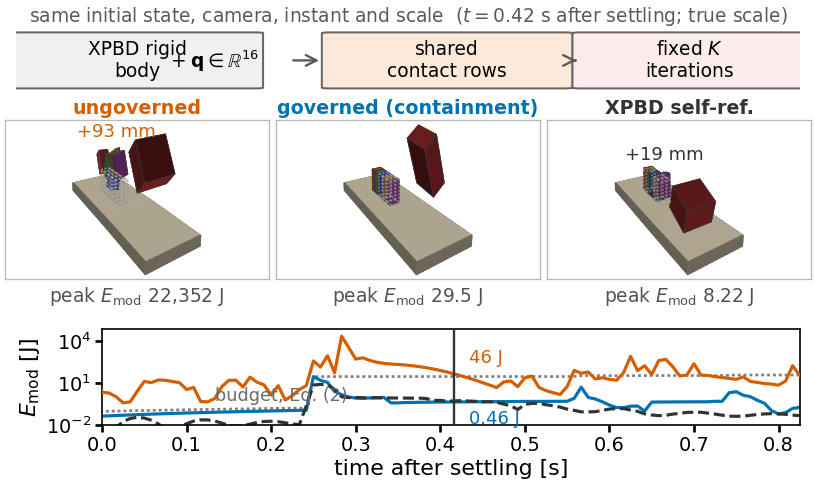
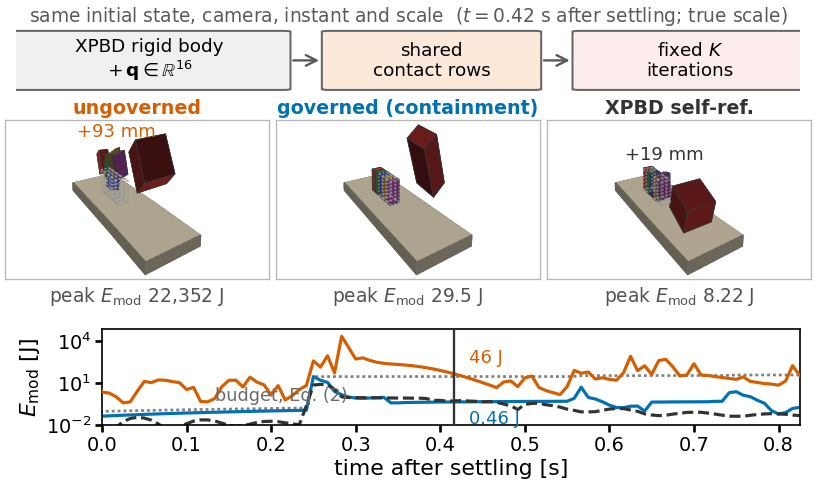
teaser: fix schematic box-1 text collision + uneven arrows
The "+ q in R^16" term was a separate floating label positioned on top
of "XPBD rigid body", so box 1 read as overlapping text. Fold the modal
term onto its own line INSIDE box 1 (single centred label, no overlap),
and make the two pipeline arrows equal length (the second was 0.01 wide
and rendered as a squished ">"). Even box gaps. Panel titles unchanged.

Changed region(s): [[0.3988, 0.0621, 0.9816, 0.1863], [0.0307, 0.0621, 0.3681, 0.1863]]

diff --git a/benchmarks/paper_fig/fig_teaser.py b/benchmarks/paper_fig/fig_teaser.py
@@ -141,21 +141,26 @@ def render_arm(ax, npz, man, arm, frame, *, aspect, xlim, ylim,
 def _schematic(fig, y0, y1):
     """The plan's Fig. 1 schematic: existing XPBD rigid body + a small modal
     vector -> one shared contact row per support -> a fixed local budget K.
-    Drawn as a thin strip of boxes and arrows in figure-fraction coords."""
+    Drawn as a thin strip of boxes and arrows in figure-fraction coords.
+
+    The `+ q` term rides on its OWN line inside box 1 -- as a separate floating
+    label it collided with 'XPBD rigid body'. The two arrow gaps are equal.
+    """
     import matplotlib.patches as mp
     ax = fig.add_axes([0.02, y0, 0.96, y1 - y0]); ax.axis("off")
     ax.set_xlim(0, 1); ax.set_ylim(0, 1)
-    boxes = [(0.005, 0.30, "XPBD rigid\nbody", "#f0f0f0"),
-             (0.185, 0.135, "$+\\;\\mathbf{q}\\in\\mathbb{R}^{16}$", None),
-             (0.40, 0.30, "shared\ncontact rows", "#fde9d9"),
+    # (x, w, text, facecolor) -- one left-to-right pipeline, even arrow gaps
+    boxes = [(0.00, 0.34, "XPBD rigid body\n$+\\,\\mathbf{q}\\in\\mathbb{R}^{16}$",
+              "#f0f0f0"),
+             (0.40, 0.26, "shared\ncontact rows", "#fde9d9"),
              (0.72, 0.28, "fixed $K$\niterations", "#fdecec")]
     for (x, w, txt, fc) in boxes:
-        if fc is not None:
-            ax.add_patch(mp.FancyBboxPatch(
-                (x, 0.14), w, 0.72, boxstyle="round,pad=0.01",
-                linewidth=0.6, edgecolor="0.4", facecolor=fc))
-        ax.text(x + w / 2, 0.5, txt, ha="center", va="center", fontsize=5.6)
-    for x0, x1 in [(0.345, 0.395), (0.705, 0.715)]:
+        ax.add_patch(mp.FancyBboxPatch(
+            (x, 0.12), w, 0.76, boxstyle="round,pad=0.01",
+            linewidth=0.6, edgecolor="0.4", facecolor=fc))
+        ax.text(x + w / 2, 0.5, txt, ha="center", va="center", fontsize=5.5,
+                linespacing=1.15)
+    for x0, x1 in [(0.345, 0.395), (0.665, 0.715)]:
         ax.annotate("", xy=(x1, 0.5), xytext=(x0, 0.5),
                     arrowprops=dict(arrowstyle="->", lw=0.7, color="0.35"))
 
